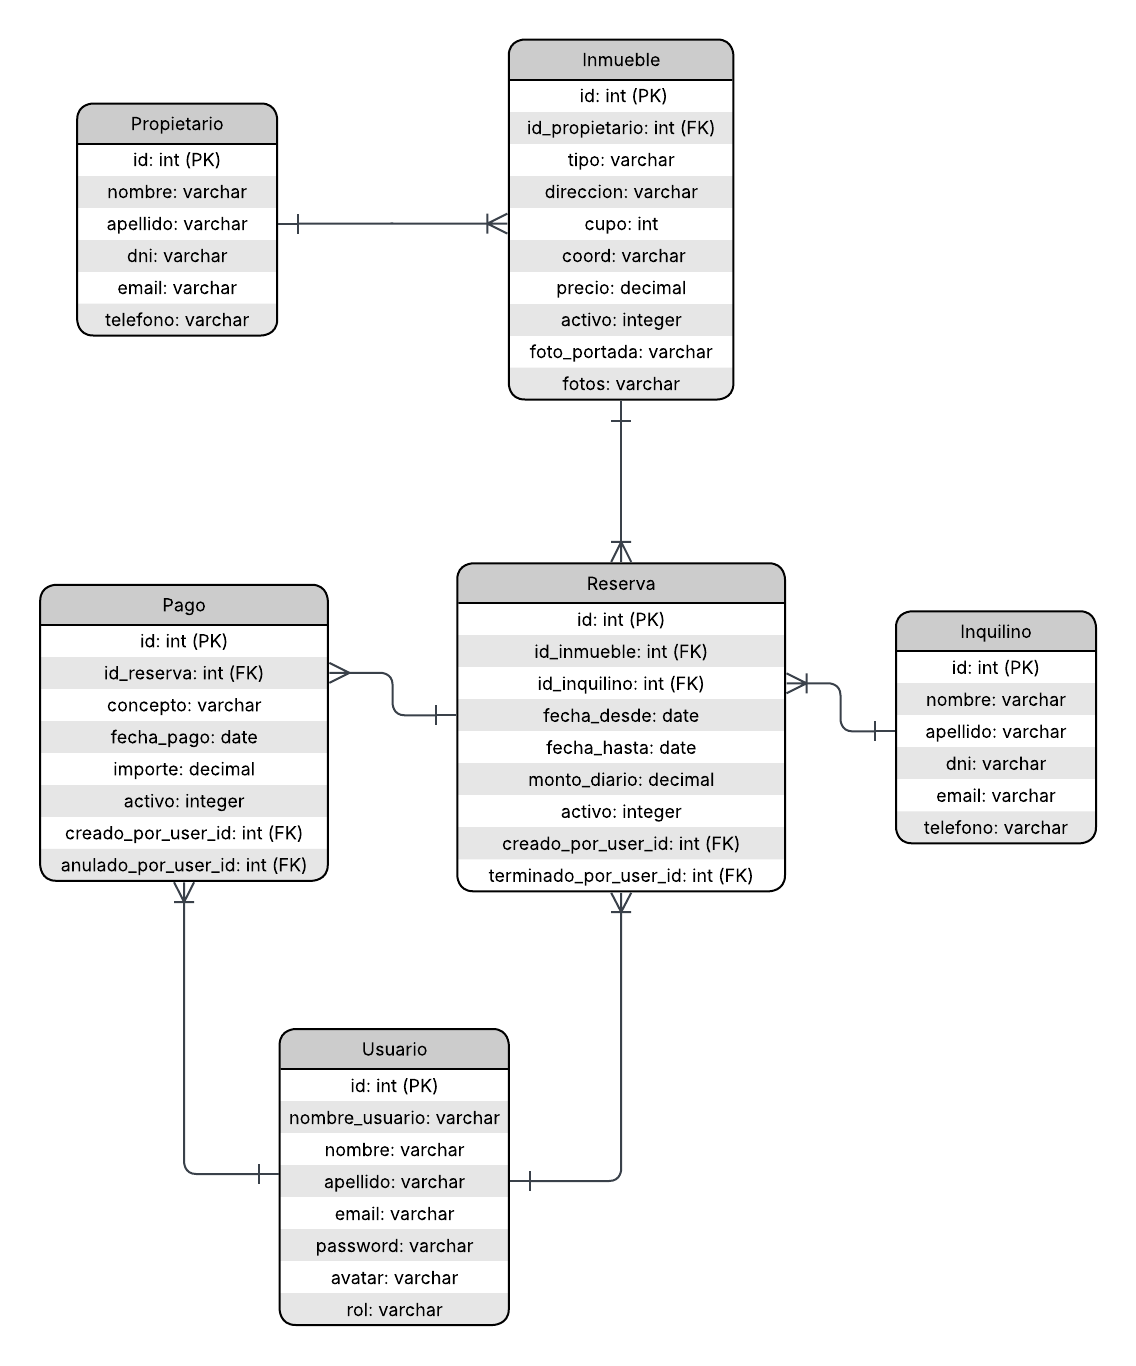
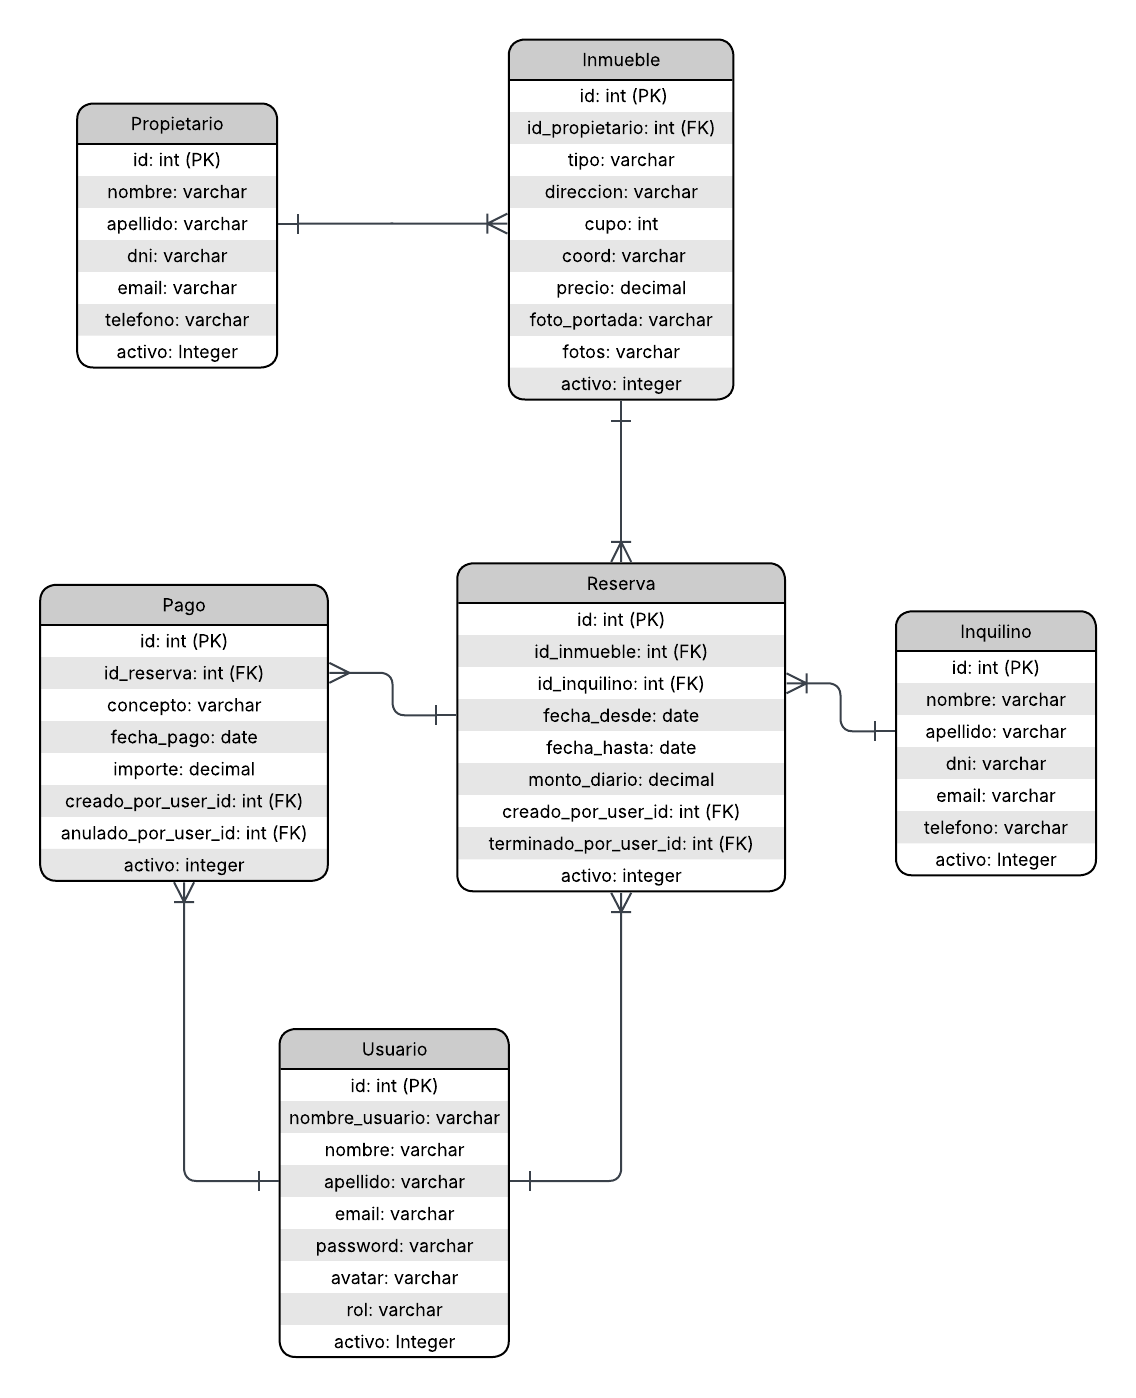
update: Actualización del DER + README + script de la BD

diff --git a/README.md b/README.md
@@ -9,6 +9,7 @@
 
 * **Luna Lopardo** - *luna.lopardo@gmail.com* - [@lunalopardo](https://github.com/lunalopardo) - Discord: `slotherin`
 * **Myriam Alvarez** - *myriamalvarez1006@gmail.com* - [@myriamalvarez](https://github.com/myriamalvarez) - Discord: `myriamalvarez1006`
+* **Leandra Campos** - *camposleandra149@gmail.com* - [@Leandra25](https://github.com/Leandra25) - Discord: `Leandra 7827`
 
 ---
 
